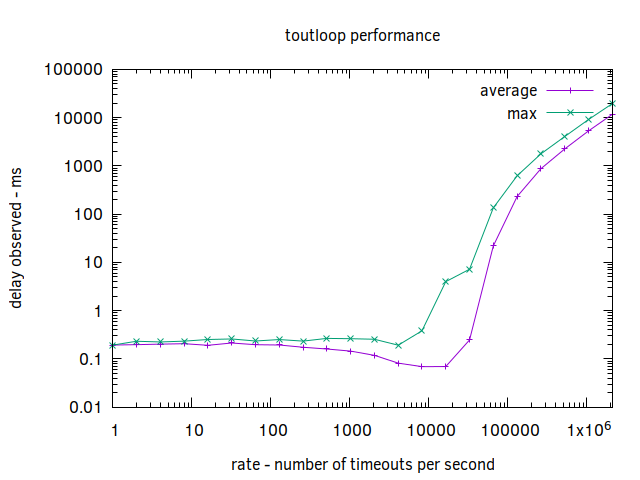
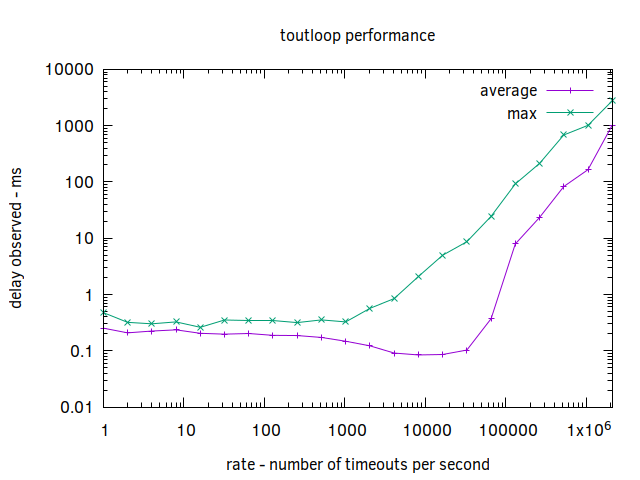
added support for recieve channel buffer size

diff --git a/tloop_test.go b/tloop_test.go
@@ -23,7 +23,7 @@ func TestExample(t *testing.T) {
 	if !testing.Short() {
 		t.Skip("skipping perf tests in perf mode")
 	}
-	tloop := New()
+	tloop := New(0 /*recieveChanBufferSize*/)
 	tloop.Run()
 
 	j1 := &tjob{name: "j1"}
@@ -50,7 +50,7 @@ func TestToutLoop(t *testing.T) {
 		t.Skip("skipping perf tests in perf mode")
 	}
 	assert := assert.New(t)
-	tloop := New()
+	tloop := New(0)
 	tloop.Run()
 
 	j1 := &tjob{name: "job-1", when: time.Now().Add(time.Millisecond * 300)}
@@ -127,12 +127,14 @@ func TestToutLoop(t *testing.T) {
 }
 
 func runToutLoopWithNJobs(numberOfJobsPerSec int64, assert *assert.Assertions) (avg, max time.Duration) {
-	tloop := New()
+	tloop := New(10)
 	tloop.Run()
 
+	mult := int64(1)
+
 	go func() {
-		for i := int64(0); i < numberOfJobsPerSec; i++ {
-			after := time.Duration(rand.Int()%1000) * time.Millisecond
+		for i := int64(0); i < numberOfJobsPerSec*mult; i++ {
+			after := time.Duration(rand.Int()%(int(mult)*1000)) * time.Millisecond
 			j := &tjob{name: fmt.Sprintf("job-%d", i), when: time.Now().Add(after)}
 			err := tloop.Add(j.name, j, after)
 			assert.NoError(err)
@@ -150,12 +152,12 @@ func runToutLoopWithNJobs(numberOfJobsPerSec int64, assert *assert.Assertions) (
 			deltaMax = delta
 		}
 		count++
-		if count == numberOfJobsPerSec {
+		if count == numberOfJobsPerSec*mult {
 			tloop.Stop()
 		}
 	}
 
-	assert.Equal(numberOfJobsPerSec, count)
+	assert.Equal(numberOfJobsPerSec*mult, count)
 
 	deltaAvg := deltaSum / time.Duration(count)
 	return deltaAvg, deltaMax
@@ -187,7 +189,7 @@ func TestToutLoopPerf(t *testing.T) {
 	}
 
 	count := int64(1)
-	for i := 0; i < 22; i++ {
+	for i := 0; i < 23; i++ {
 		deltaAvg, deltaMax := runToutLoopWithNJobs(count, assert)
 		t.Logf("count: %d", count)
 		t.Logf("avg delta: %s", deltaAvg)

diff --git a/tloop.go b/tloop.go
@@ -162,11 +162,11 @@ func (e *ToutLoop) Run() {
 }
 
 // New returns a new timeout looop
-func New() *ToutLoop {
+func New(recieveChanBuffer int) *ToutLoop {
 	e := &ToutLoop{
 		requests: make(chan *request),
 		reply:    make(chan error),
-		C:        make(chan interface{}),
+		C:        make(chan interface{}, recieveChanBuffer),
 		wg:       sync.WaitGroup{},
 		store:    make(map[string]*timeout),
 	}

diff --git a/README.md b/README.md
@@ -23,7 +23,7 @@ type tjob struct {
 }
 
 func main() {
-	tloop := New()
+	tloop := New(0 /*recieveChanBufferSize*/ )
 	tloop.Run()
 
 	j1 := &tjob{name: "j1"}
@@ -50,4 +50,4 @@ func main() {
 
 ![chart](performance.png)
 
-As observed in the chart, the loop performs with lower then millisecond delay for events when its scheduling upto 10K events per second. After which the performance degrades and the toutloop can't keep up with expiring timeouts. 
+As observed in the chart, the loop performs with lower then millisecond delay for events when its scheduling upto 10K events per second. After which the performance degrades and the toutloop can't seem to keep up with expiring timeouts. 
